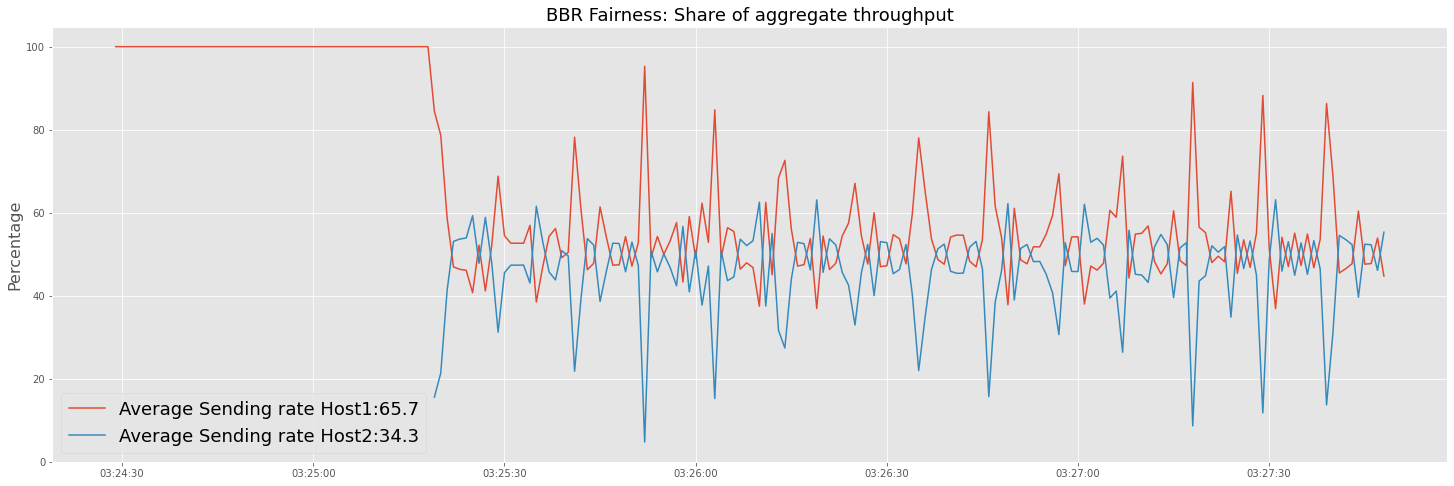
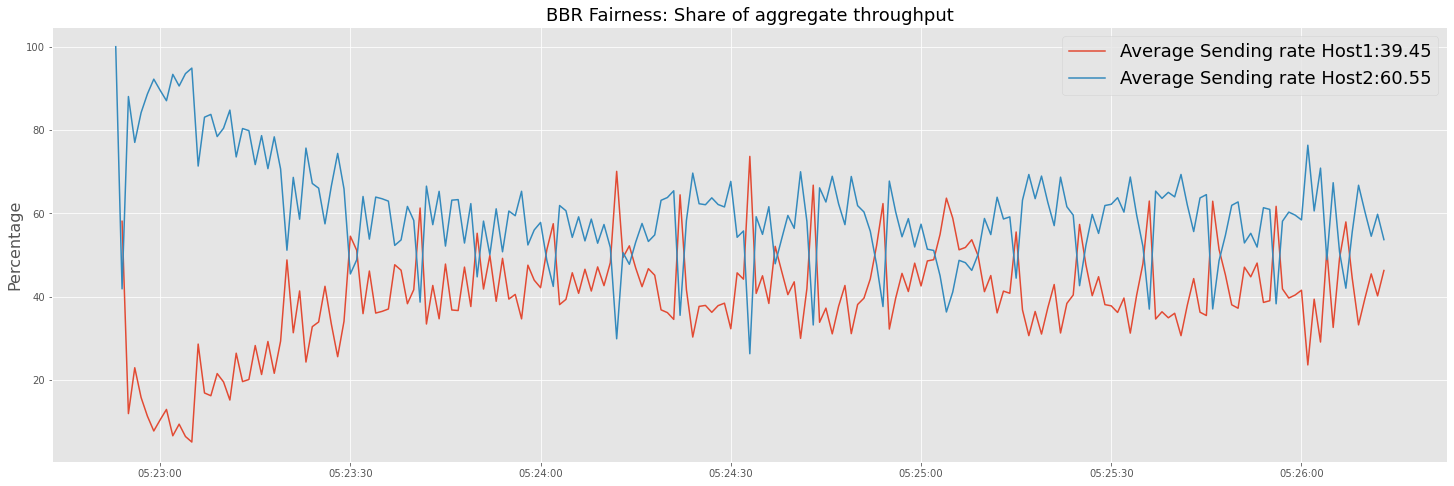
fixup

diff --git a/_posts/2022-9-02-TCP-Congestion-Experiment.md b/_posts/2022-9-02-TCP-Congestion-Experiment.md
@@ -246,14 +246,29 @@ operate according to this new bottleneck bandwidth estimate.
 
 ### Experiment: Two TCP BBR Session
 
+Let's start with looking at two BBR sessions first. The things which stand out are
+- Buffers are almost full. Please recall that our buffer here is 100 which is very shallow compared to buffer required for BDP.
+- Due to the shallow buffers and them being always full, we also observe more packet loss. However impact on throughput due to packet loss is not there.
+- RTT is constant.
+- Sending rate between both hosts seems to be approximately equal.
+
 ![BBR Sessions](/images/post13/double_bbr_output.png "BBR Sessions")
 
 ### Experiment: TCP BBR and Cubic Session
 
+Now if we change one of the session (`H1-H3`) from previous experiment to TCP Cubic, we observe that TCP Cubic takes the fair share 
+of the network bandwidth. I suspect this is due to buffers being shallow and TCP BBR not reacting to Loss while Cubic scaling it's rate 
+and ending up getting starved.
+
 ![BBR with Cubic Small Buffer](/images/post13/bbr_cubic_output.png "BBR with Cubic")
 
+Now I change the buffer size on the router to 1000 Packets. Now we see a better resource sharing between BBR and Cubic as more buffers 
+are providing 
 
 ![BBR with Cubic large Buffer](/images/post13/bbr_cubic_output_buffer.png "BBR with Cubic with large buffer")
+
+## Conclusion
+
 
 
 ## References
